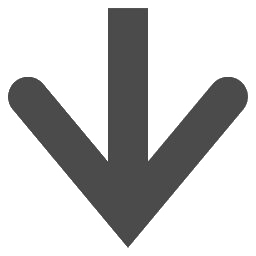
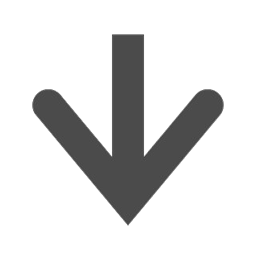
feat: update event handling in BlockSettingView and enhance focus behavior in SettingListItem

Changed region(s): [[0.0312, 0.0312, 0.9688, 0.9688]]

diff --git a/src/components/BlockSettingView.vue b/src/components/BlockSettingView.vue
@@ -11,22 +11,22 @@
           :items="categoryNames"
           :selected-item="activeCategory"
           @update:selected-item="onCategorySelected"
-          @move-up="onCategoryMoveUp"
-          @move-down="onCategoryMoveDown"
+          @move-up="onMoveUpCategory"
+          @move-down="onMoveDownCategory"
           @add="onAddCategory"
-          @delete="onDeleteCategory"
           @rename="onRenameCategory"
+          @delete="onDeleteCategory"
         />
         <SettingListItem
           :title="`BLOCK — ${activeCategory}`"
           :items="activeBlockList"
           :selected-item="selectedBlock"
           @update:selected-item="selectedBlock = $event"
-          @move-up="onMoveUp"
-          @move-down="onMoveDown"
+          @move-up="onMoveUpBlock"
+          @move-down="onMoveDownBlock"
           @add="onAddBlock"
-          @delete="onDelete"
           @rename="onRenameBlock"
+          @delete="onDeleteBlock"
         />
       </div>
       <BlockSettingBlockParams
@@ -100,42 +100,15 @@ export default {
       selectedBlock.value = activeBlockList.value[0] ?? null;
     }
 
-    function onMoveUp(blockName) {
-      entryDefinitionService.moveBlockUp(blockName);
-      bumpRefresh();
-      persist();
-    }
-
-    function onMoveDown(blockName) {
-      entryDefinitionService.moveBlockDown(blockName);
-      bumpRefresh();
-      persist();
-    }
-
-    function onDelete(blockName) {
-      entryDefinitionService.removeBlock(blockName);
-      bumpRefresh();
-      selectedBlock.value = null;
-      persist();
-    }
-
-    function onCategoryMoveUp() {
+    function onMoveUpCategory() {
       entryDefinitionService.moveCategoryUp(activeCategory.value);
       bumpRefresh();
       persist();
     }
 
-    function onCategoryMoveDown() {
+    function onMoveDownCategory() {
       entryDefinitionService.moveCategoryDown(activeCategory.value);
       bumpRefresh();
-      persist();
-    }
-
-    function onDeleteCategory() {
-      entryDefinitionService.removeCategory(activeCategory.value);
-      bumpRefresh();
-      activeCategory.value = entryDefinitionService.blockCategories[0]?.name ?? '';
-      selectedBlock.value = null;
       persist();
     }
 
@@ -149,6 +122,34 @@ export default {
       }
     }
 
+    function onRenameCategory(oldName, newName) {
+      if (entryDefinitionService.renameCategory(oldName, newName)) {
+        bumpRefresh();
+        activeCategory.value = newName.trim();
+        persist();
+      }
+    }
+
+    function onDeleteCategory() {
+      entryDefinitionService.removeCategory(activeCategory.value);
+      bumpRefresh();
+      activeCategory.value = entryDefinitionService.blockCategories[0]?.name ?? '';
+      selectedBlock.value = null;
+      persist();
+    }
+
+    function onMoveUpBlock(blockName) {
+      entryDefinitionService.moveBlockUp(blockName);
+      bumpRefresh();
+      persist();
+    }
+
+    function onMoveDownBlock(blockName) {
+      entryDefinitionService.moveBlockDown(blockName);
+      bumpRefresh();
+      persist();
+    }
+
     function onAddBlock(insertIndex) {
       console.log('Adding block at index', insertIndex, 'in category', activeCategory.value);
       const newName = entryDefinitionService.addBlock(activeCategory.value, null, insertIndex);
@@ -158,21 +159,20 @@ export default {
         persist();
       }
     }
-
-    function onRenameCategory(oldName, newName) {
-      if (entryDefinitionService.renameCategory(oldName, newName)) {
-        bumpRefresh();
-        activeCategory.value = newName.trim();
-        persist();
-      }
-    }
-
+    
     function onRenameBlock(oldName, newName) {
       if (entryDefinitionService.renameBlock(oldName, newName)) {
         bumpRefresh();
         selectedBlock.value = newName.trim();
         persist();
       }
+    }
+
+    function onDeleteBlock(blockName) {
+      entryDefinitionService.removeBlock(blockName);
+      bumpRefresh();
+      selectedBlock.value = null;
+      persist();
     }
 
     return {
@@ -184,14 +184,14 @@ export default {
       inputParams,
       outputParams,
       onCategorySelected,
-      onCategoryMoveUp,
-      onCategoryMoveDown,
+      onMoveUpCategory,
+      onMoveDownCategory,
       onDeleteCategory,
       onAddCategory,
-      onMoveUp,
-      onMoveDown,
-      onDelete,
+      onMoveUpBlock,
+      onMoveDownBlock,
       onAddBlock,
+      onDeleteBlock,
       onRenameCategory,
       onRenameBlock,
     };

diff --git a/src/components/SettingListItem.vue b/src/components/SettingListItem.vue
@@ -52,7 +52,7 @@
 </template>
 
 <script>
-import { ref } from 'vue';
+import { ref, nextTick } from 'vue';
 
 export default {
   name: 'SettingListItem',
@@ -79,6 +79,7 @@ export default {
       if (!props.selectedItem) return;
       editingItem.value = props.selectedItem;
       editingValue.value = props.selectedItem;
+      nextTick(() => document.querySelector('.rename-input')?.focus());
     }
     function commitEdit() {
       if (!editingItem.value) return;